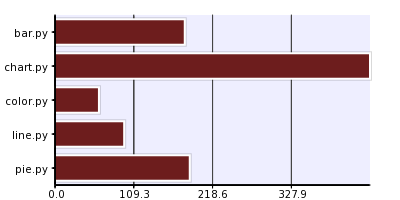
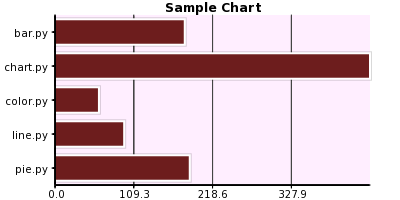
Support for drawing the whole background in a solid color. Patch by jae. See #6

Changed region(s): [[0.39, 0.0, 0.66, 0.09]]

diff --git a/src/chart.py b/src/chart.py
@@ -257,13 +257,24 @@ class Chart(object):
             return
 
         cx.save()
-        cx.set_source_rgb(*hex2rgb(self.options.background.color))
-        cx.rectangle(self.area.x, self.area.y, self.area.w, self.area.h)
-        cx.fill()
-        cx.set_source_rgb(*hex2rgb(self.options.background.lineColor))
-        cx.set_line_width(self.options.axis.lineWidth)
 
-        self._renderLines(cx)
+        if self.options.background.baseColor:
+            cx.set_source_rgb(*hex2rgb(self.options.background.baseColor))
+            x, y, w, h = 0, 0, self.area.w, self.area.h
+            w += self.options.padding.left + self.options.padding.right
+            h += self.options.padding.top + self.options.padding.bottom
+            cx.rectangle(x, y, w, h)
+            cx.fill() 
+
+        if self.options.background.chartColor:
+            cx.set_source_rgb(*hex2rgb(self.options.background.chartColor))
+            cx.rectangle(self.area.x, self.area.y, self.area.w, self.area.h)
+            cx.fill() 
+
+        if self.options.background.lineColor:
+            cx.set_source_rgb(*hex2rgb(self.options.background.lineColor))
+            cx.set_line_width(self.options.axis.lineWidth)
+            self._renderLines(cx) 
 
         cx.restore()
 
@@ -492,8 +503,9 @@ DEFAULT_OPTIONS = Option(
         ),
     ),
     background=Option(
-        color='#f5f5f5',
         hide=False,
+        baseColor=None,
+        chartColor='#f5f5f5',
         lineColor='#ffffff',
         lineWidth=1.5,
     ),

diff --git a/src/pie.py b/src/pie.py
@@ -79,9 +79,15 @@ class PieChart(Chart):
             return
         
         cx.save()
-        cx.set_source_rgb(*hex2rgb(self.options.background.color))
-        cx.rectangle(self.area.x, self.area.y, self.area.w, self.area.h)
-        cx.fill()
+
+        if self.options.background.baseColor:
+            cx.set_source_rgb(*hex2rgb(self.options.background.baseColor))
+            x, y, w, h = 0, 0, self.area.w, self.area.h
+            w += self.options.padding.left + self.options.padding.right
+            h += self.options.padding.top + self.options.padding.bottom
+            cx.rectangle(x, y, w, h)
+            cx.fill()
+        
         cx.restore()
 
     def _renderChart(self, cx):

diff --git a/examples/barchart.py b/examples/barchart.py
@@ -40,7 +40,8 @@ def barChart(output, chartFactory):
             }
         },
         'background': {
-            'color': '#eeeeff',
+            'chartColor': '#ffeeff',
+            'baseColor': '#ffffff',
             'lineColor': '#444444'
         },
         'colorScheme': 'red',
@@ -49,7 +50,8 @@ def barChart(output, chartFactory):
         },
         'padding': {
             'left': 55
-        }
+        },
+        'title': 'Sample Chart'
     }
     chart = chartFactory(surface, options)
 
